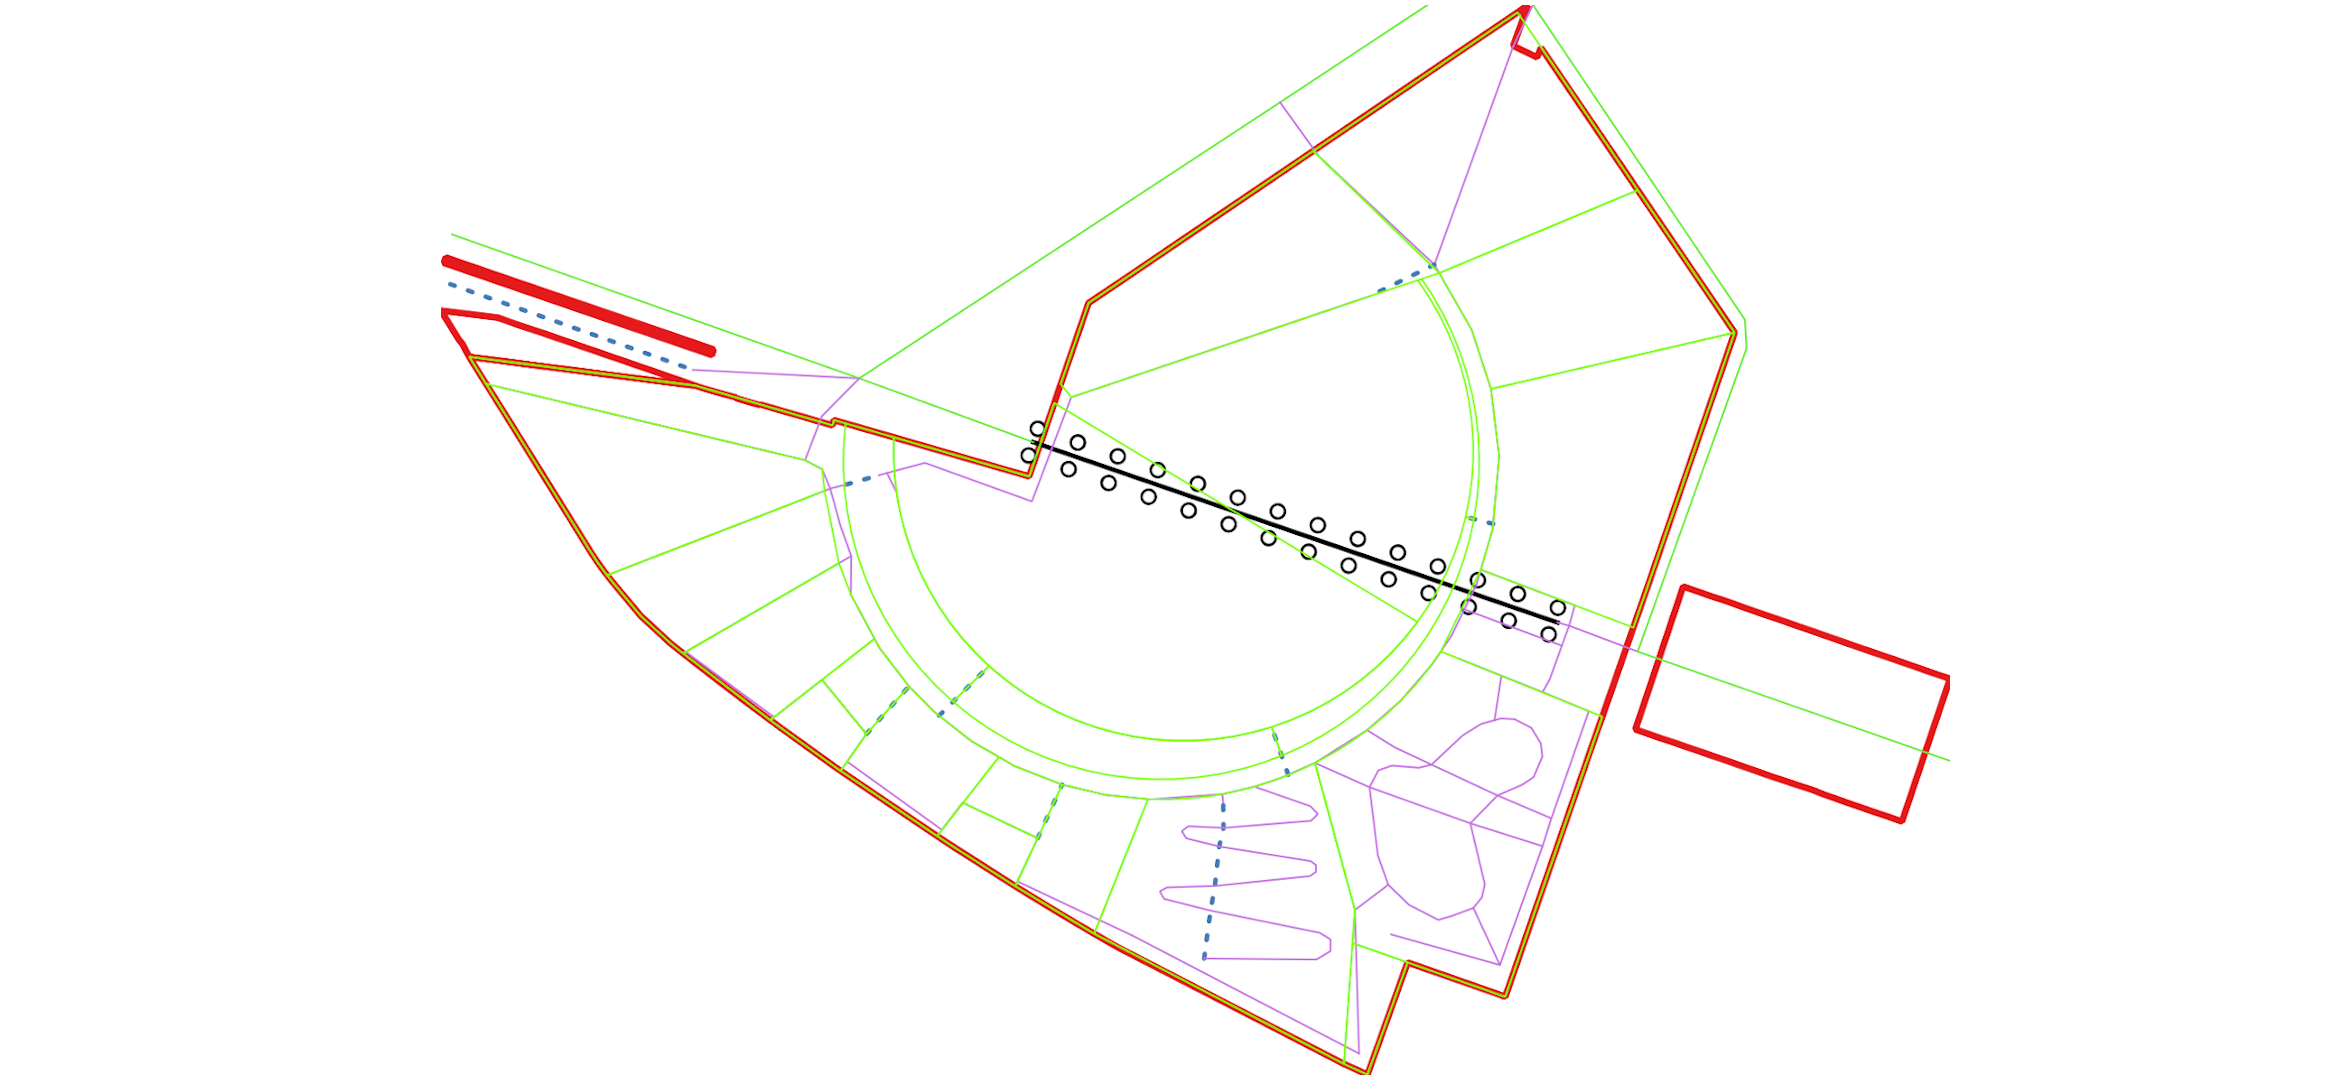
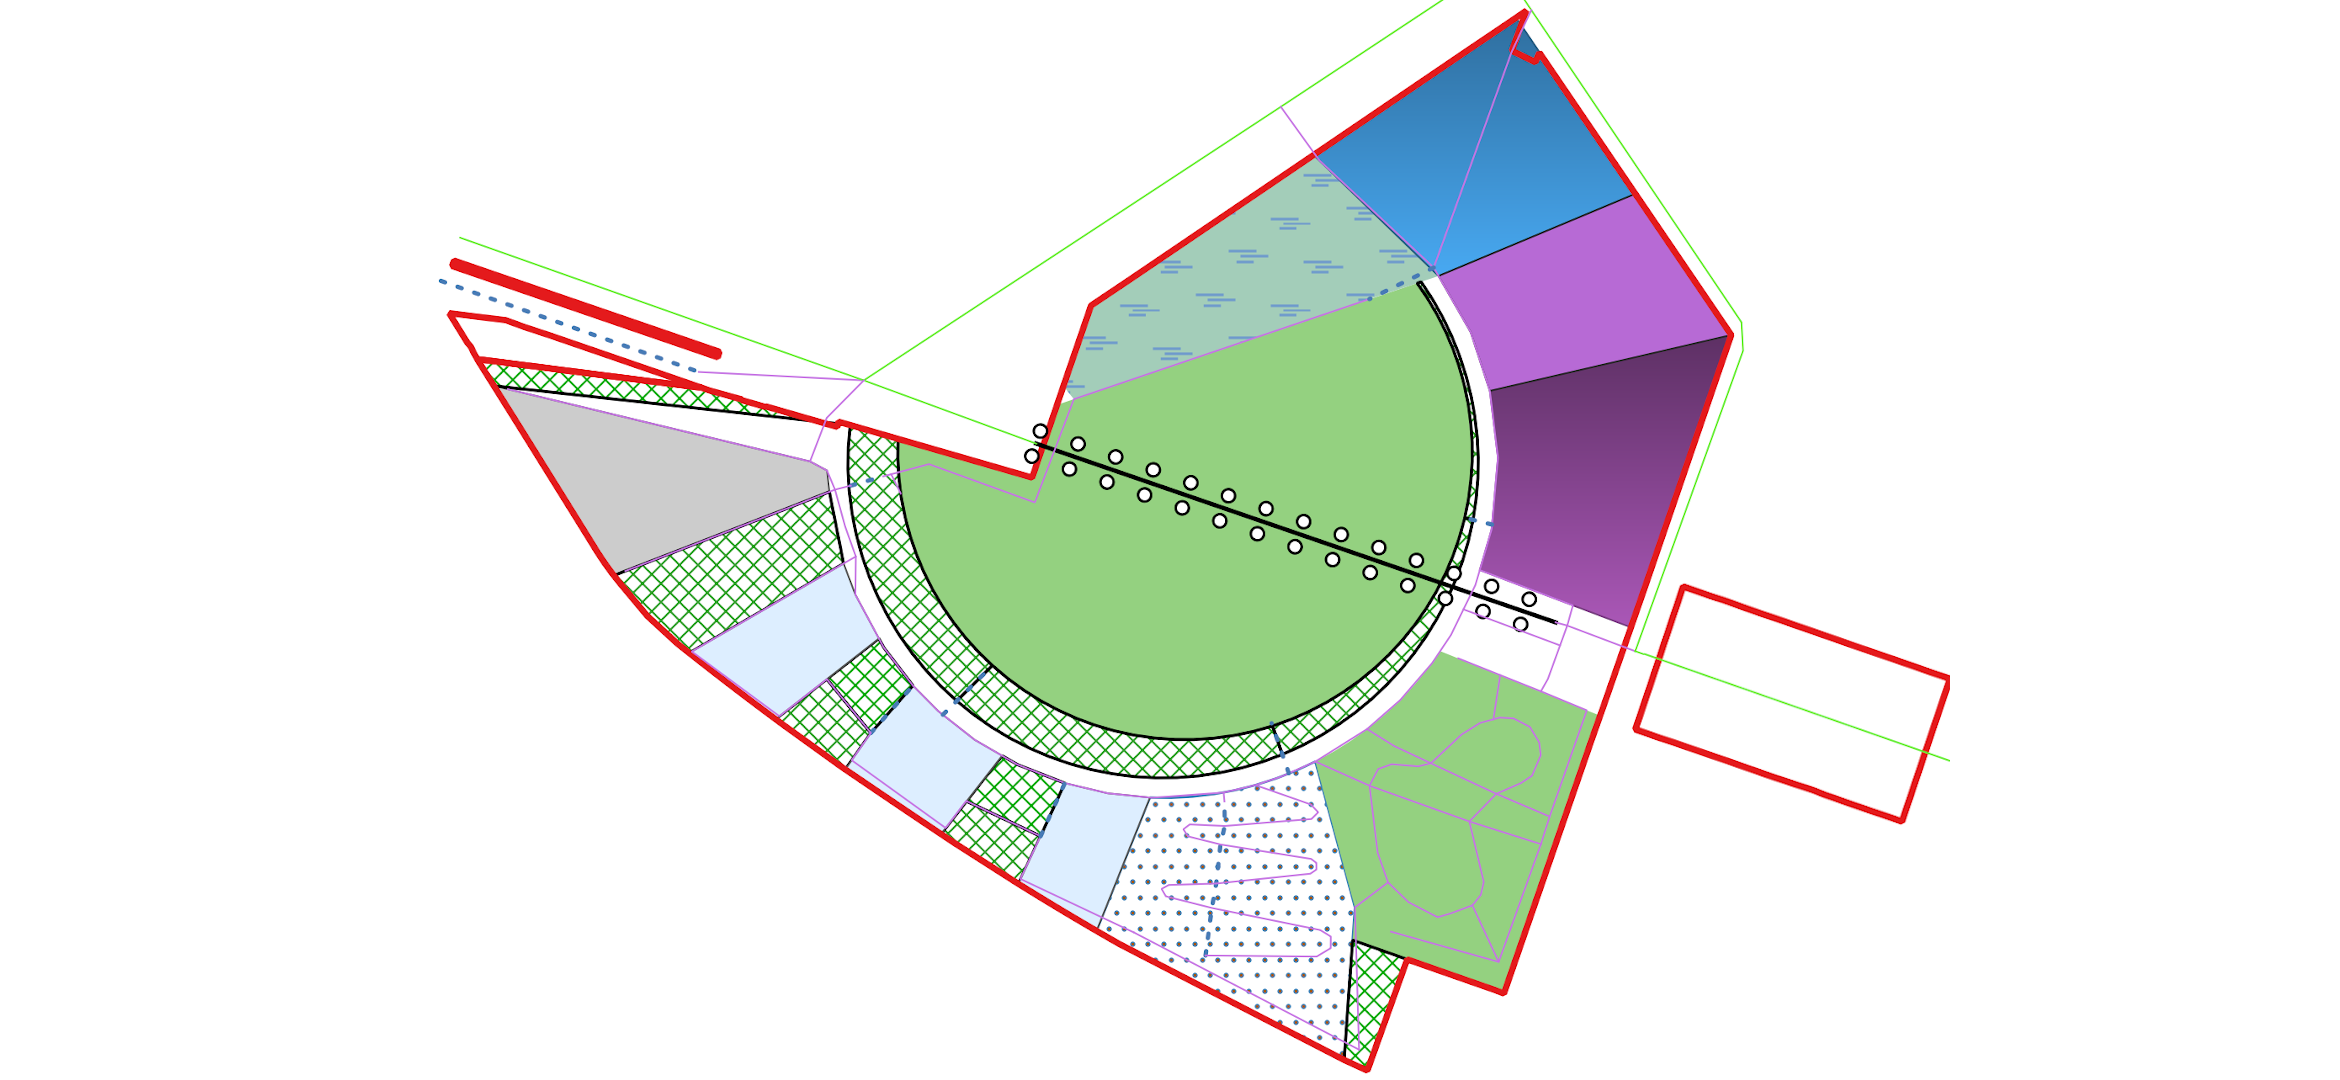
Version beta 0.1 - jeu fonctionnel, quelques bugs - ajout d'une fonction pour débloquer la situation en dessin en cas de fail du gps - changement de la carte - initialisation des variables / boutons pour une véritable partie - changement sur le code du lievre

Changed region(s): [[0.1872, 0.0, 0.7487, 1.0], [0.3744, 0.3056, 0.4056, 0.3361]]

diff --git a/enigmes.py b/enigmes.py
@@ -34,12 +34,13 @@ class LievreScreen(SecondaryScreen):
         screen.ids.timer.text = str(t)
         if t==0:
             screen.stop()
-            if screen.ids.answer.text == "mot de passe : XXXXXXXX":
+            if screen.ids.answer.text == "mot de passe : ????????":
                 print("succès")
+                screen.ids.answer.text == "mot de passe : PATIENCE"
                 clear_sound()
                 clear_enigme_6_lievre(App.get_running_app().root)
             else:
-                screen.ids.answer.text = "mot de passe : XXXXXXXX"
+                screen.ids.answer.text = "mot de passe : ????????"
 
     def start(self):
         if not self.already_pressed:
@@ -67,49 +68,61 @@ class DessinScreen(SecondaryScreen):
     next_location = 1
     next_lat = 48.84208
     next_lon = 2.388240
+    #next_lat = 48.84208
+    #next_lon = 2.388240
 # au besoin : https://stackoverflow.com/questions/40829408/how-to-trace-a-path-in-kivy-map
 # pour dessiner direct sur la carte
 # https://kivy-garden.github.io/mapview/mapview.html
 # https://www.youtube.com/watch?v=P940dd1VxsU
+    def get_next_loc_coordinates(self):
+        return self.ids['point_' + str(self.next_location)].lat, self.ids['point_' + str(self.next_location)].lon
 
     def on_gps_location(self, **kwargs):
-
-        def get_next_loc_coordinates(self):
-            return self.ids['point_' + str(self.next_location)].lat, self.ids['point_' + str(self.next_location)].lon
-            # print(kwargs)
 
         self.ids['player'].lon = str(kwargs['lon'])
         self.ids['player'].lat = str(kwargs['lat'])
 
-        self.ids['lat'].text = str(kwargs['lat'])
-        self.ids['lon'].text = str(kwargs['lon'])
-        self.ids['map'].center_on((kwargs['lat'],kwargs['lon']))
-
+        # self.ids['lat'].text = str(kwargs['lat'])
+        # self.ids['lon'].text = str(kwargs['lon'])
+        # self.ids['map'].center_on((kwargs['lat'],kwargs['lon']))
+        print("~~~~~~~~~~~~~~~~~~~~~~~~~~~~~~~~~~~~~~~~~~")
+        # print("lon actuelle : " + str(kwargs['lon']) + " vs : " + str(self.next_lon))
+        # print("lat actuelle : " + str(kwargs['lat']) + " vs : " + str(self.next_lat))
+        print("next location : " + str(self.next_location))
         if (self.ids['centerbutton'].disabled == False
-                and self.ids['player'].lat > self.next_lat-0.00001
-                and self.ids['player'].lat < self.next_lat+ 0.00001
-                and self.ids['player'].lon > self.next_lon-0.00001
-                and self.ids['player'].lat < self.next_lon + 0.00001):
+                and kwargs['lat'] >= self.next_lat-0.00003
+                and kwargs['lat'] <= self.next_lat + 0.00003
+                and kwargs['lon'] >= self.next_lon-0.00003
+                and kwargs['lon'] <= self.next_lon + 0.00003):
             print(" Dessin - point trouvé !")
             #changement de couleur point actuel (complété)
-            self.ids['point_' + str(self.next_location)].source = "./resources/images/gpsmarker.png"
+            self.reveal_next()
 
-            if self.next_location < 7:
-                # changement du next_location
-                self.next_location = self.next_location + 1
-                # changement des next_lat/next_long
-                self.next_lat, self.next_long = get_next_loc_coordinates()
-                # affichage du point suivant
-                self.ids['point_' + str(self.next_location)].source = "./resources/images/gpsmarker_next.png"
-            elif self.location == 7:
-                add_log(App.get_running_app().root, search_log("log_12"))
-                self.next_lat = 10
-                self.next_long = 10
-                self.next_location = 8
-                #evite de charger l'image en boucle - solution de merde
-            else:
-                print("Dessin - fini")
+    def reveal_next(self):
+        self.ids['point_' + str(self.next_location)].source = "./resources/images/gpsmarker.png"
 
+        if self.next_location < 7:
+            # changement du next_location
+            self.next_location = self.next_location + 1
+            # changement des next_lat/next_long
+            self.next_lat, self.next_lon = self.get_next_loc_coordinates()
+            print("DESSIN - next coordinates : " + str(self.next_lat) + " || " + str(self.next_lon))
+            # affichage du point suivant
+            self.ids['point_' + str(self.next_location)].source = "./resources/images/gpsmarker_next.png"
+        elif self.next_location == 7:
+            print("fin de l'énigme dessin")
+            add_log(App.get_running_app().root, search_log("log_12"))
+            self.next_lat = 10
+            self.next_long = 10
+            self.next_location = 8
+            # evite de charger l'image en boucle - solution de merde
+        else:
+            print("Dessin - fini")
+
+    def try_reveal_next(self, point):
+        print("j'appuie - next_location : " + str(self.next_location))
+        if point == self.next_location:
+            self.reveal_next()
 
 
     def __init__(self, **kwargs):

diff --git a/setup/db_setup.py b/setup/db_setup.py
@@ -174,8 +174,9 @@ Tel ces enfants qui ont imaginé ce langage, je dois prendre de la hauteur et pe
 Je vais repartir m’imprégner à nouveau de ce que monde a à offrir.
 ", 13),
 ('log_12', "Voilà donc ce qu’il me manquait : l’[color=#8b00ff]IMAGINATION[/color].
-Parcourir les chemins, découvrir ces paysages m’a fait voir les choses sous un autre angle : Les sons, les couleurs, les symboles se mêlent et se répondent. 
-Un message qui se révèle à qui sait l’écouter. 
+Parcourir les chemins, découvrir ces paysages m’a fait voir les choses sous un autre angle : 
+les sons, les couleurs, les symboles se mêlent et se répondent. 
+Un message qui se révèle à qui sait le lire. 
 ", 14),
 ('log_13', "J’ai suivi un arc-en-ciel par delà les remparts. A son pied veillait un ange, protecteur et bienveillant, qui me tint ces propos :
     - <<Des lacs infinis aux montagnes de feu, de l’air que tu respires à la terre que tu foules, tout n’est qu’un.
@@ -189,6 +190,8 @@ Et bien soit !
 J’accepte mon destin. 
 De par mes expériences, je tirerai des maximes, des leçons à transmettre aux miens. 
 Ici-même je créerai la première, cachée pour qui comme moi a cherché des réponses.
+Non loin de l'ange, au pied de l'arc-en-ciel, résident les filles d'Atlas. Elles y tiennent le ciel
+duquel coulent les flots. Je leur confierai mon oeuvre.
 ", 16)
 ;""")
 conn.commit()

diff --git a/main.py b/main.py
@@ -99,7 +99,7 @@ def add_log(screen_manager, lst):
         print("add_log - nouvelle liste des logs : " + str(logs_list))
         logs_list.sort(key=lambda x: x[1])
         print(logs_list)
-        screen_manager.get_screen('log').ids['logs'].text = ''.join(str(elt[1]) + ' >> '+ str(elt[0]) + '\n_____________________________________________\n' for elt in logs_list)
+        screen_manager.get_screen('log').ids['logs'].text = ''.join(str(elt[1]) + ' >> '+ str(elt[0]) + '\n_____________________________________________\n\n' for elt in logs_list)
 
 
 def update_clear_log(log):

diff --git a/zbarcam.py b/zbarcam.py
@@ -147,7 +147,7 @@ class ZBarCam(AnchorLayout):
 
     resolution = ListProperty([640, 480])
     last_symbol = ""
-    bullshit = StringProperty('XXXXXXXX')
+    bullshit = StringProperty('????????')
     symbols = ListProperty([])
     Symbol = namedtuple('Symbol', ['type', 'data'])
     # checking all possible types by default
